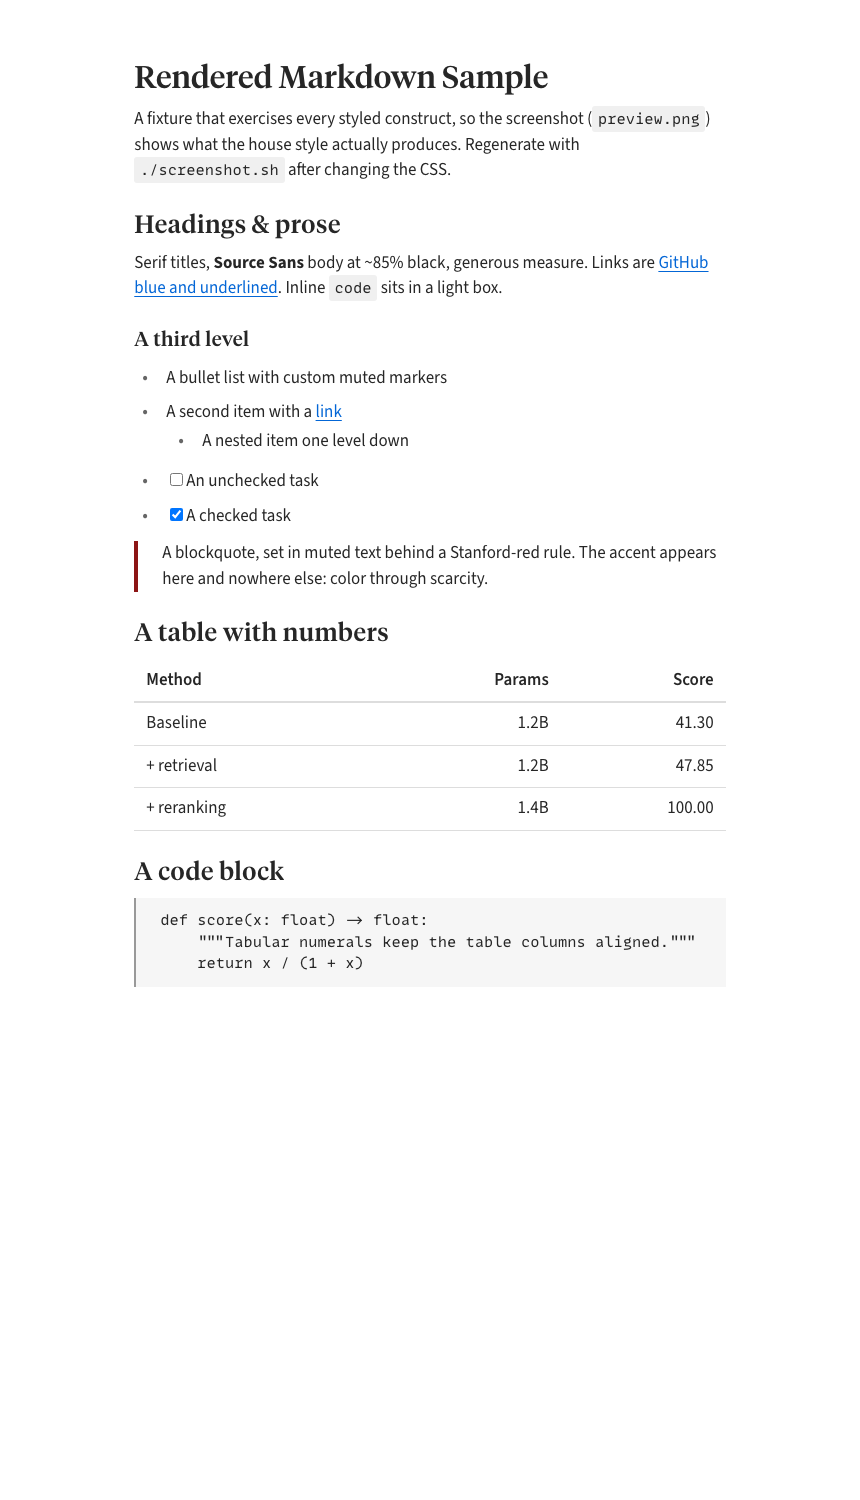
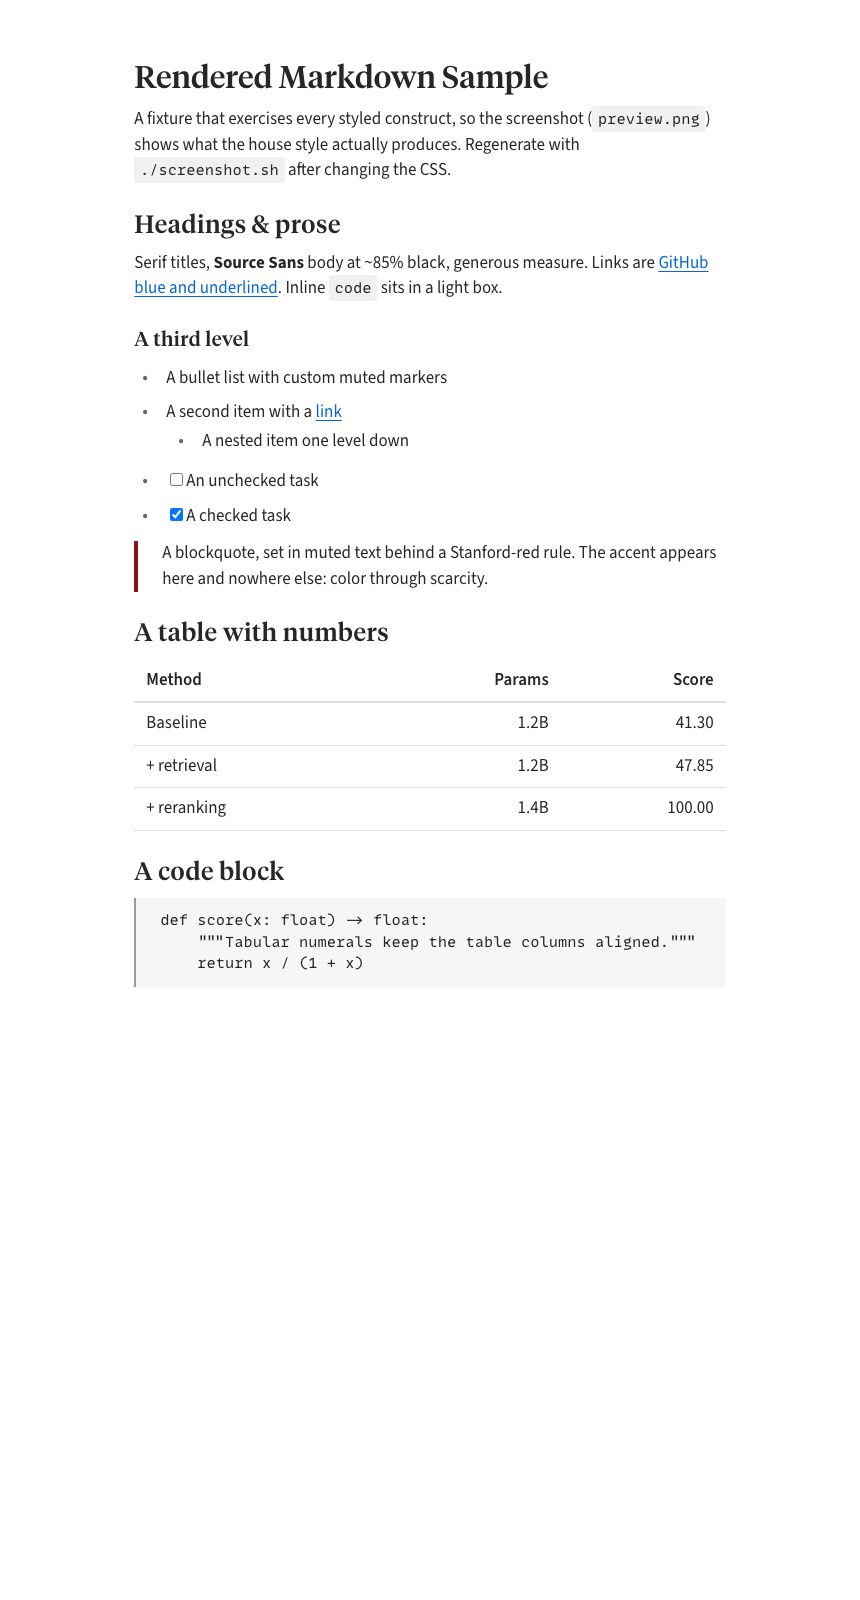
add render.py: self-contained reproduce/verify harness
render.py renders fixtures/*.md through both consumer pipelines (preview = pandoc gfm +
preview.css → Chrome screenshot; print = pandoc gfm + print.css → Chrome PDF) into out/,
so any rendering issue can be reproduced and eyeballed from this repo alone. --check
asserts HTML invariants headlessly (CI-able); --readme regenerates preview.png.
fixtures/regressions.md pins the cases that have bitten (list-no-blank-line, nesting,
math, tables, tasks, autolinks). Replaces screenshot.sh; sample.md → fixtures/showcase.md.

diff --git a/render.py b/render.py
@@ -1,0 +1,142 @@
+#!/usr/bin/env -S uv run --script
+# /// script
+# requires-python = ">=3.11"
+# ///
+"""Render + check harness for this repo's markdown CSS. Self-contained: needs only
+pandoc, Google Chrome, and pdftoppm (poppler) on PATH.
+
+  ./render.py                  render every fixtures/*.md to out/<name>.preview.png and
+                               out/<name>.print-1.png (and .print.pdf) so you can eyeball both media
+  ./render.py fixtures/x.md    render one file (or any .md path)
+  ./render.py --readme         regenerate the committed README image (preview.png) from fixtures/showcase.md
+  ./render.py --check          headless: assert structural invariants on the rendered HTML; exit 1 on failure
+
+How to reproduce a rendering bug: drop a minimal .md in fixtures/, run ./render.py, look at
+out/. If it's a structural/parsing issue, add an assertion to CHECKS and run ./render.py --check.
+
+Pipelines mirror the real consumers (so what you see here is what they produce):
+  preview = pandoc (READER) -> HTML + tokens.css + preview.css, screenshotted by Chrome  (~= VS Code preview)
+  print   = pandoc (READER) -> HTML + tokens.css + print.css, Chrome --print-to-pdf       (= md-print)
+READER is kept identical to md-print's PANDOC_FORMAT; bump both together.
+"""
+
+import argparse
+import os
+import subprocess
+import sys
+import tempfile
+from pathlib import Path
+
+ROOT = Path(__file__).resolve().parent
+FIXTURES = ROOT / "fixtures"
+OUT = ROOT / "out"
+READER = "gfm+tex_math_dollars"  # keep in sync with md-print's PANDOC_FORMAT
+MATHJAX = "https://cdn.jsdelivr.net/npm/mathjax@3/es5/tex-svg-full.js"
+CHROME = os.environ.get("CHROME", "/Applications/Google Chrome.app/Contents/MacOS/Google Chrome")
+
+
+def sh(*args: str) -> str:
+    return subprocess.run(args, check=True, capture_output=True, text=True).stdout
+
+
+def to_html_body(md: Path) -> str:
+    return sh("pandoc", str(md), "-f", READER, "-t", "html")
+
+
+def page(body: str, css: list[str], body_class: str = "", mathjax: bool = False) -> str:
+    links = "\n".join(f'<link rel="stylesheet" href="{(ROOT / c).as_uri()}">' for c in css)
+    mj = f'<script src="{MATHJAX}"></script>' if mathjax else ""
+    return (
+        f'<!doctype html><html><head><meta charset="utf-8">{links}{mj}</head>'
+        f'<body class="{body_class}">{body}</body></html>'
+    )
+
+
+def _chrome(html: str, *flags: str) -> None:
+    with tempfile.NamedTemporaryFile("w", suffix=".html", delete=False) as f:
+        f.write(html)
+        path = f.name
+    try:
+        sh(
+            CHROME, "--headless=new", "--disable-gpu", "--hide-scrollbars",
+            "--default-background-color=ffffffff", *flags, f"file://{path}",
+        )
+    finally:
+        os.unlink(path)
+
+
+def render(md: Path) -> None:
+    OUT.mkdir(exist_ok=True)
+    body = to_html_body(md)
+    has_math = 'class="math' in body
+    name = md.stem
+
+    preview_png = OUT / f"{name}.preview.png"
+    _chrome(page(body, ["tokens.css", "preview.css"], "vscode-body"),
+            "--window-size=860,1600", f"--screenshot={preview_png}")
+
+    pdf = OUT / f"{name}.print.pdf"
+    flags = [f"--print-to-pdf={pdf}", "--no-pdf-header-footer"]
+    if has_math:  # let MathJax typeset before the snapshot (mirrors md-print)
+        flags += ["--run-all-compositor-stages-before-draw", "--virtual-time-budget=10000"]
+    _chrome(page(body, ["tokens.css", "print.css"], mathjax=has_math), *flags)
+    sh("pdftoppm", "-png", "-r", "110", "-f", "1", "-l", "1", str(pdf), str(OUT / f"{name}.print"))
+    print(f"  {name}: out/{name}.preview.png  out/{name}.print-1.png")
+
+
+# (fixture stem, [substrings that MUST appear], [substrings that must NOT appear])
+CHECKS = [
+    ("regressions",
+     ['<ul>', '<ol', '<table>', 'class="math inline"', 'class="math display"',
+      'type="checkbox"', '<del>', 'href="https://example.com'],
+     ['Mechanism / understand them - Deepest pain']),  # list must not collapse to a paragraph
+    ("showcase", ['<table>', '<ul>', 'type="checkbox"'], []),
+]
+
+
+def check() -> int:
+    import re
+    failures = []
+    for stem, must, must_not in CHECKS:
+        html = re.sub(r"\s+", " ", to_html_body(FIXTURES / f"{stem}.md"))  # normalize pandoc line-wraps
+        for s in must:
+            if s not in html:
+                failures.append(f"{stem}.md: missing {s!r}")
+        for s in must_not:
+            if s in html:
+                failures.append(f"{stem}.md: found forbidden {s!r}")
+    # the original bug, asserted precisely: the no-blank-line list is a real list
+    reg = to_html_body(FIXTURES / "regressions.md")
+    if reg.count("<li>") < 3:
+        failures.append("regressions.md: list-without-blank-line did not produce list items")
+    for f in failures:
+        print("FAIL:", f, file=sys.stderr)
+    print(f"{'FAILED' if failures else 'OK'}: {len(CHECKS)} fixtures checked", file=sys.stderr)
+    return 1 if failures else 0
+
+
+def main() -> int:
+    ap = argparse.ArgumentParser()
+    ap.add_argument("paths", nargs="*", help="markdown files to render (default: fixtures/*.md)")
+    ap.add_argument("--check", action="store_true", help="assert HTML invariants; exit 1 on failure")
+    ap.add_argument("--readme", action="store_true", help="regenerate preview.png from fixtures/showcase.md")
+    args = ap.parse_args()
+
+    if args.check:
+        return check()
+    if args.readme:
+        render(FIXTURES / "showcase.md")
+        import shutil
+        shutil.copy(OUT / "showcase.preview.png", ROOT / "preview.png")
+        print("updated preview.png")
+        return 0
+
+    targets = [Path(p) for p in args.paths] if args.paths else sorted(FIXTURES.glob("*.md"))
+    print(f"rendering {len(targets)} fixture(s) to out/")
+    for md in targets:
+        render(md)
+    return 0
+
+
+if __name__ == "__main__":
+    raise SystemExit(main())

diff --git a/fixtures/regressions.md b/fixtures/regressions.md
@@ -1,0 +1,70 @@
+# Regressions
+
+Tricky cases that have broken before, or are easy to break. `render.py --check` asserts
+on the HTML; `render.py` renders the PDF/PNG so you can eyeball pagination and spacing.
+
+## List interrupting a paragraph (no blank line)
+
+The Seoram-TV digest bug: bullets directly under a label line, no blank line. Pandoc's
+default `markdown` reader swallowed these into a run-on paragraph; the gfm reader (and
+VS Code's preview) render a real list.
+
+Mechanism / understand them
+- Deepest pain: admitting fault.
+- Emotions they feel: chronic fear the mask cracks.
+- This phobia: an emotion phobia.
+
+## Ordered list
+
+1. First
+2. Second
+3. Third
+
+## Deeply nested
+
+- L1
+  - L2
+    - L3
+      - L4
+
+## Task list
+
+- [ ] undone
+- [x] done
+
+## Loose list
+
+- one
+
+- two
+
+- three
+
+## List item with sub-blocks
+
+- An item with a second paragraph.
+
+  Second paragraph inside the item.
+
+  ```python
+  x = [i for i in range(10)]
+  ```
+
+- A normal item after it.
+
+## Math
+
+Inline $x^2 + y^2 = z^2$ and display:
+
+$$\int_0^1 f(x)\,dx = F(1) - F(0)$$
+
+## Table with numbers
+
+| Method      | Params |  Score |
+| ----------- | -----: | -----: |
+| Baseline    |   1.2B |  41.30 |
+| + retrieval |   1.4B | 100.00 |
+
+## Long URL + strikethrough
+
+A ~~struck~~ phrase and a bare link https://example.com/a/very/long/path/that/should/wrap/in/print that must wrap.

diff --git a/README.md b/README.md
@@ -1,22 +1,37 @@
 # Markdown CSS (single source of truth)
 
-One place for how vault markdown looks, on screen and in print. Tracked in the (private) vault repo.
+One public, standalone repo for how markdown looks on screen (VS Code preview) and in print (md-print).
 
 ## Look
 
 ![rendered sample](preview.png)
 
-Rendered from `sample.md` through `tokens.css` + `preview.css`. **Regenerate after any CSS change** so this stays current: `./screenshot.sh` (needs pandoc + Chrome), then commit `preview.png`. The script renders the fixture the same way VS Code does, so it doubles as a quick visual check that a token change landed in both the look and the screenshot.
+`fixtures/showcase.md` rendered through `tokens.css` + `preview.css`. Regenerate after any CSS change: `./render.py --readme`, then commit `preview.png`.
 
 ## Files
 
-- `tokens.css` — shared house-style design tokens: palette (~85% black, grayscale, surgical Stanford red `#8c1515`) and font families (Source Serif/Tiempos titles, Source Sans body, Source Code mono). Source: `Personal/Personal Aesthetic.md`, `Concepts/Fonts.md`.
+- `tokens.css` — shared house-style design tokens: palette (~85% black, grayscale, surgical Stanford red `#8c1515`) and font families (Source Serif/Tiempos titles, Source Sans body, Source Code mono). Source: vault `Personal/Personal Aesthetic.md`, `Concepts/Fonts.md`.
 - `preview.css` — VS Code Markdown preview (screen): force light mode, rem sizes, vertical rhythm, hide the frontmatter table.
 - `print.css` — `md-print` PDF (Chrome): `@page`, pt sizes, page-break control.
-- `sample.md` + `screenshot.sh` — fixture and the script that renders `preview.png` (the image above).
+- `render.py` — render/check harness (see below). `fixtures/` — markdown corpus it renders.
 - `agent_notes/` — `plan.md` (improvement backlog) and `lessons.md` (renderer gotchas).
 
 `preview.css` and `print.css` both consume `tokens.css`'s `:root` variables. Change a color or font in `tokens.css` once and both media update. No `@import`: each consumer loads `tokens.css` as a separate stylesheet (CSS custom properties are global), which avoids webview/Chrome import-resolution issues.
+
+## Verifying changes (`render.py`)
+
+Self-contained reproduction + regression harness. Needs `pandoc`, Google Chrome, and `pdftoppm` (poppler) on PATH.
+
+```
+./render.py                # render every fixtures/*.md → out/<name>.preview.png + out/<name>.print-1.png
+./render.py fixtures/x.md  # render one file
+./render.py --check        # headless: assert HTML invariants; exit 1 on failure (CI-able)
+./render.py --readme       # regenerate preview.png from fixtures/showcase.md
+```
+
+The two pipelines mirror the real consumers, so what you see in `out/` is what they produce: preview = pandoc (`gfm`) → `tokens.css`+`preview.css`, Chrome screenshot; print = pandoc (`gfm`) → `tokens.css`+`print.css`, Chrome `--print-to-pdf`. The pandoc reader is kept identical to md-print's `PANDOC_FORMAT`.
+
+**To reproduce a rendering bug:** drop a minimal `.md` in `fixtures/`, run `./render.py`, look at `out/`. If it's structural/parsing, add an assertion to `CHECKS` in `render.py` and gate it with `--check`. `fixtures/regressions.md` already pins the cases that have bitten before (lists that interrupt a paragraph with no blank line, nesting, math, tables, task lists, autolinks).
 
 ## How each is wired
 
@@ -25,7 +40,7 @@ Standalone public repo, not tied to any vault.
 - **Preview (global):** VS Code User-settings `markdown.styles` lists two jsdelivr URLs — `tokens.css` then `preview.css` — so the preview is styled in any folder. Edit here → push → purge jsdelivr (`curl https://purge.jsdelivr.net/gh/yoonholee/vscode-markdown-css@main/preview.css`) → bump the `?v=` in User settings so VS Code refetches → reopen preview.
 - **Print (local):** `md-print.py` (`dotfiles/hosts/laptop/bin/`) passes `tokens.css` then `print.css` as two `--css` flags, read from a local clone at `~/repos/vscode-markdown-css` (override with `MD_CSS_DIR`). Edit → `md-print <file.md>` (offline; no CDN). Push to keep jsdelivr in sync for the preview.
 
-After any change: run `./screenshot.sh` and commit `preview.png`.
+After any change: `./render.py --check`, eyeball `out/` if needed, run `./render.py --readme`, commit.
 
 ## History
 

diff --git a/agent_notes/plan.md b/agent_notes/plan.md
@@ -13,7 +13,7 @@ Delivery: preview via jsdelivr (User-settings `markdown.styles`); print reads a 
 
 ## Shipped 2026-05-30
 
-Quick wins 1–4, 6, 7 applied (print-color-adjust, underline links [kept GitHub blue], orphans/widows, break-inside coverage + h5/h6, print blockquote accent bar, tabular-nums in tables). Taste forks resolved: link color = GitHub blue; print measure capped to 90ch. Added `sample.md` + `screenshot.sh` + `preview.png` (item 12, partial — fixture + render, no `just`/lint yet). Remaining: quick win 5 (install Source Code Pro), structural items 8–11, lower-priority + the other taste forks below.
+Quick wins 1–4, 6, 7 applied (print-color-adjust, underline links [kept GitHub blue], orphans/widows, break-inside coverage + h5/h6, print blockquote accent bar, tabular-nums in tables). Taste forks resolved: link color = GitHub blue; print measure capped to 90ch. Item 12 (verification harness) shipped 2026-05-31: `render.py` renders `fixtures/*.md` through both pipelines to `out/` (preview PNG + print PDF/PNG), `--check` asserts HTML invariants headlessly, `--readme` regenerates `preview.png`. `fixtures/regressions.md` pins the cases that have bitten (list-no-blank-line, nesting, math, tables, tasks, autolinks). Remaining of 12: optional stylelint, a `just` release recipe, `pdffonts` font-substitution assertion. Remaining overall: quick win 5 (install Source Code Pro), structural items 8–11, lower-priority + the taste forks below.
 
 ## Improvement backlog
 